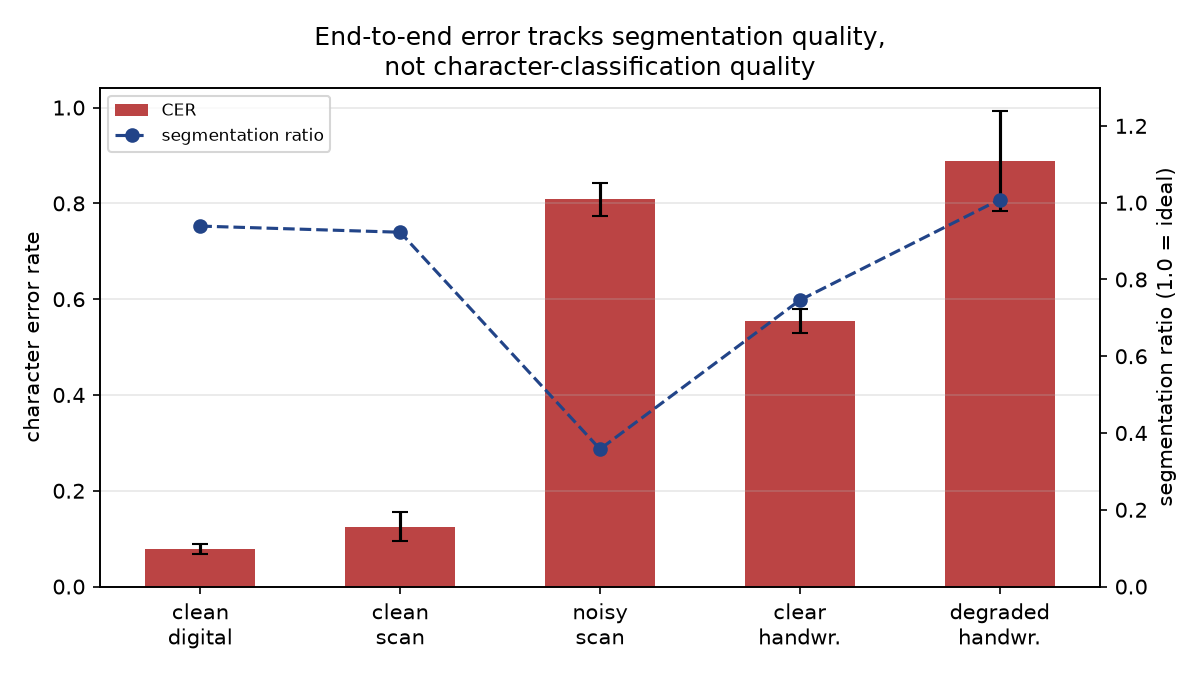
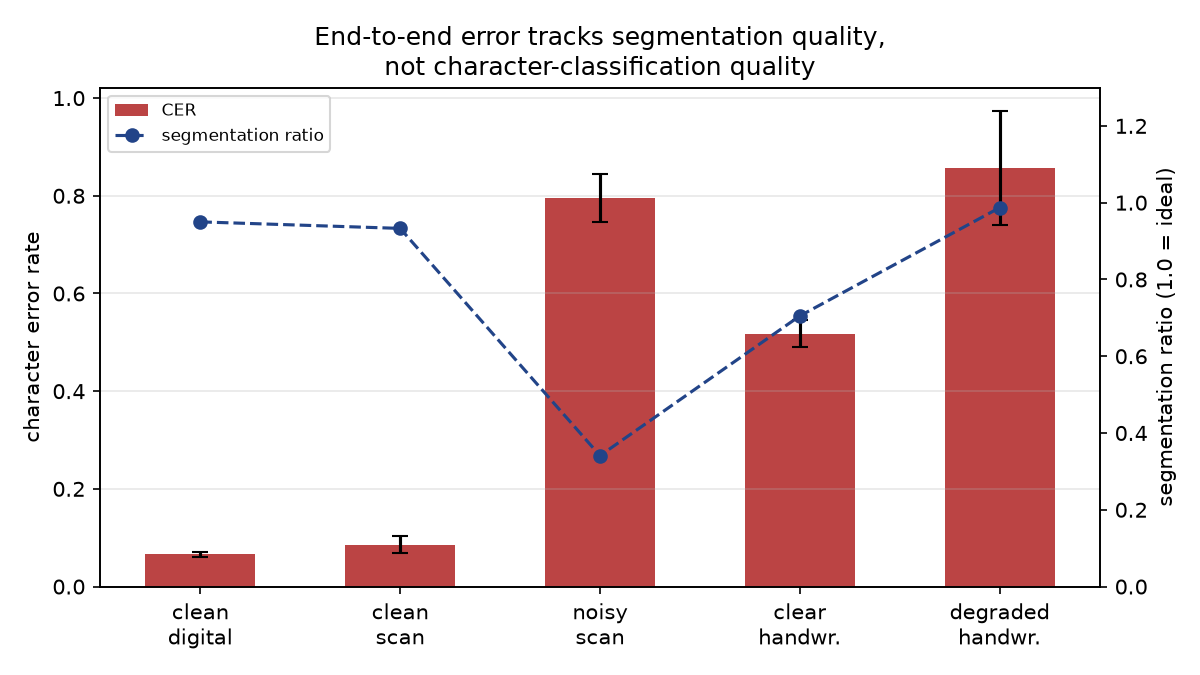
[Benchmark] Re-measure on the committed dataset
The previous results.json was measured on a locally regenerated dataset whose
glyphs were shifted 0-2px by Pillow's RAQM layout engine, so it disagreed with
every dataset-dependent figure in the report and CI was failing on both the
clean_scan tolerance and the report/results consistency gate.

Re-run against the committed data: 6.6 / 8.5 / 79.5 / 51.8 / 85.7, matching
docs/final_report.md on all five tiers.

diff --git a/benchmarking/results.md b/benchmarking/results.md
@@ -8,20 +8,20 @@ Generated by `benchmarking/run_benchmark.py`. All numbers measured, none estimat
 |---|---|---|---|---|
 | clean_digital | 99.3% (d=64) | 100.0% (d=160) | 100.0% (d=160) | 100.0% (d=64) |
 | clean_scan | 99.3% (d=64) | 100.0% (d=160) | 100.0% (d=160) | 100.0% (d=64) |
-| noisy_scan | 93.0% (d=64) | 98.3% (d=160) | 98.0% (d=160) | 98.7% (d=64) |
-| clear_handwriting | 88.7% (d=64) | 97.0% (d=160) | 97.3% (d=160) | 97.3% (d=64) |
-| degraded_handwriting | 63.8% (d=64) | 73.8% (d=160) | 73.4% (d=160) | 77.4% (d=64) |
-| ALL_TIERS | 87.5% (d=64) | 92.8% (d=160) | 92.5% (d=160) | 94.3% (d=64) |
+| noisy_scan | 93.0% (d=64) | 97.7% (d=160) | 97.7% (d=160) | 98.3% (d=64) |
+| clear_handwriting | 87.7% (d=64) | 96.7% (d=160) | 96.3% (d=160) | 98.7% (d=64) |
+| degraded_handwriting | 62.5% (d=64) | 75.8% (d=160) | 74.4% (d=160) | 79.4% (d=64) |
+| ALL_TIERS | 86.7% (d=64) | 92.2% (d=160) | 91.9% (d=160) | 93.6% (d=64) |
 
 ## B. End-to-end character error rate
 
 | Tier | CER | std | segmentation ratio | document ID exact |
 |---|---|---|---|---|
-| clean_digital | 7.8% | 1.1% | 0.94 | 100% |
-| clean_scan | 12.5% | 3.0% | 0.92 | 50% |
-| noisy_scan | 80.9% | 3.4% | 0.36 | 0% |
-| clear_handwriting | 55.4% | 2.5% | 0.75 | 0% |
-| degraded_handwriting | 88.8% | 10.4% | 1.01 | 0% |
+| clean_digital | 6.6% | 0.5% | 0.95 | 100% |
+| clean_scan | 8.5% | 1.8% | 0.93 | 58% |
+| noisy_scan | 79.5% | 4.9% | 0.34 | 0% |
+| clear_handwriting | 51.8% | 2.8% | 0.70 | 0% |
+| degraded_handwriting | 85.7% | 11.6% | 0.99 | 0% |
 
 ## C. Quantum resource cost
 
@@ -65,8 +65,8 @@ Measured CX scaling exponent vs N: **1.39**. A value near 1 or above confirms th
 
 | shots | accuracy |
 |---|---|
-| 64 | 69.5% |
-| 256 | 82.1% |
-| 1024 | 85.9% |
-| 4096 | 86.6% |
-| exact | 87.5% |
+| 64 | 70.7% |
+| 256 | 81.7% |
+| 1024 | 85.2% |
+| 4096 | 86.7% |
+| exact | 86.7% |
